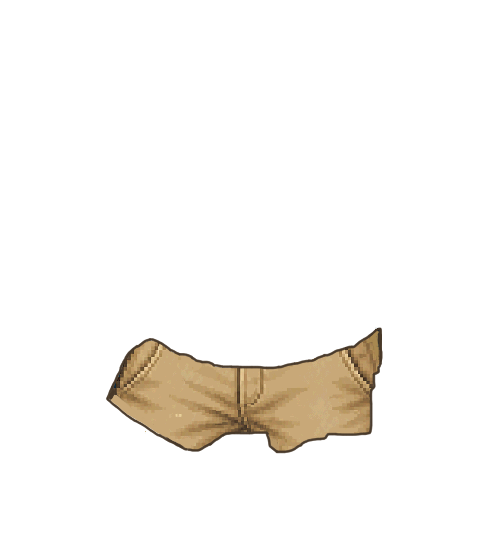
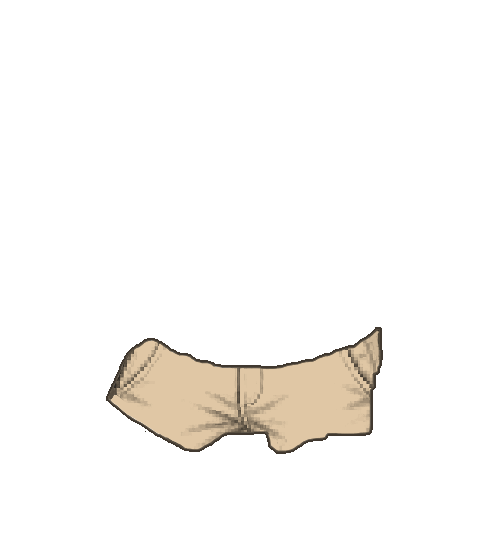
Новые предметы гардероба

Changed region(s): [[0.2188, 0.5959, 0.8125, 0.8641]]

diff --git a/src/data/wardrobe.ts b/src/data/wardrobe.ts
@@ -37,28 +37,43 @@ export const BODY_FILE = "wardrobe/body/bulbasaur_body.png";
 
 export const WARDROBE_ITEMS: WardrobeItemDef[] = [
   { code: "bottom_beach_shorts", category: "BOTTOM", name: "Пляжные шорты", price: 500, sellable: true, file: "wardrobe/bottom/bottom_beach_shorts.png" },
-  { code: "bottom_beige_shorts", category: "BOTTOM", name: "Бежевые шорты", price: 500, sellable: true, file: "wardrobe/bottom/bottom_beige_shorts.png", colorGroup: "basic_shorts", colorHex: "#c8b090", displayName: "Шорты" },
+  { code: "bottom_beige_shorts", category: "BOTTOM", name: "Бежевые шорты", price: 500, sellable: true, file: "wardrobe/bottom/bottom_beige_shorts.png", colorGroup: "basic_shorts", colorHex: "#c6b092", displayName: "Шорты" },
   { code: "bottom_black_shorts", category: "BOTTOM", name: "Чёрные шорты", price: 0, sellable: false, file: "wardrobe/bottom/bottom_black_shorts.png", colorGroup: "basic_shorts", colorHex: "#1a1a1a", displayName: "Шорты" },
-  { code: "bottom_blue_shorts", category: "BOTTOM", name: "Синие шорты", price: 1500, sellable: true, file: "wardrobe/bottom/bottom_blue_shorts.png", colorGroup: "basic_shorts", colorHex: "#3770d2", displayName: "Шорты" },
+  { code: "bottom_blue_shorts", category: "BOTTOM", name: "Синие шорты", price: 1500, sellable: true, file: "wardrobe/bottom/bottom_blue_shorts.png", colorGroup: "basic_shorts", colorHex: "#4777c3", displayName: "Шорты" },
   { code: "bottom_denim_shorts", category: "BOTTOM", name: "Джинсовые шорты", price: 500, sellable: true, file: "wardrobe/bottom/bottom_denim_shorts.png" },
-  { code: "bottom_green_shorts", category: "BOTTOM", name: "Зелёные шорты", price: 1500, sellable: true, file: "wardrobe/bottom/bottom_green_shorts.png", colorGroup: "basic_shorts", colorHex: "#2d9646", displayName: "Шорты" },
+  { code: "bottom_green_shorts", category: "BOTTOM", name: "Зелёные шорты", price: 1500, sellable: true, file: "wardrobe/bottom/bottom_green_shorts.png", colorGroup: "basic_shorts", colorHex: "#419353", displayName: "Шорты" },
   { code: "bottom_office_shorts", category: "BOTTOM", name: "Офисные шорты", price: 500, sellable: true, file: "wardrobe/bottom/bottom_office_shorts.png" },
-  { code: "bottom_orange_shorts", category: "BOTTOM", name: "Оранжевые шорты", price: 1500, sellable: true, file: "wardrobe/bottom/bottom_orange_shorts.png", colorGroup: "basic_shorts", colorHex: "#e6822d", displayName: "Шорты" },
-  { code: "bottom_pink_shorts", category: "BOTTOM", name: "Розовые шорты", price: 1500, sellable: true, file: "wardrobe/bottom/bottom_pink_shorts.png", colorGroup: "basic_shorts", colorHex: "#e664a0", displayName: "Шорты" },
-  { code: "bottom_purple_shorts", category: "BOTTOM", name: "Фиолетовые шорты", price: 1500, sellable: true, file: "wardrobe/bottom/bottom_purple_shorts.png", colorGroup: "basic_shorts", colorHex: "#7b3fa0", displayName: "Шорты" },
-  { code: "bottom_red_shorts", category: "BOTTOM", name: "Красные шорты", price: 1500, sellable: true, file: "wardrobe/bottom/bottom_red_shorts.png", colorGroup: "basic_shorts", colorHex: "#c83737", displayName: "Шорты" },
+  { code: "bottom_orange_shorts", category: "BOTTOM", name: "Оранжевые шорты", price: 1500, sellable: true, file: "wardrobe/bottom/bottom_orange_shorts.png", colorGroup: "basic_shorts", colorHex: "#d7863a", displayName: "Шорты" },
+  { code: "bottom_pink_shorts", category: "BOTTOM", name: "Розовые шорты", price: 1500, sellable: true, file: "wardrobe/bottom/bottom_pink_shorts.png", colorGroup: "basic_shorts", colorHex: "#d76e9d", displayName: "Шорты" },
+  { code: "bottom_purple_shorts", category: "BOTTOM", name: "Фиолетовые шорты", price: 1500, sellable: true, file: "wardrobe/bottom/bottom_purple_shorts.png", colorGroup: "basic_shorts", colorHex: "#7b4d98", displayName: "Шорты" },
+  { code: "bottom_red_shorts", category: "BOTTOM", name: "Красные шорты", price: 1500, sellable: true, file: "wardrobe/bottom/bottom_red_shorts.png", colorGroup: "basic_shorts", colorHex: "#bd4747", displayName: "Шорты" },
   { code: "bottom_sport_shorts", category: "BOTTOM", name: "Спортивные шорты", price: 500, sellable: true, file: "wardrobe/bottom/bottom_sport_shorts.png" },
   { code: "bottom_white_shorts", category: "BOTTOM", name: "Белые шорты", price: 500, sellable: true, file: "wardrobe/bottom/bottom_white_shorts.png", colorGroup: "basic_shorts", colorHex: "#f2f2f2", displayName: "Шорты" },
+  { code: "hat_wdm_white_cap", category: "HAT", name: "Белая кепка WDM", price: 5000, sellable: true, file: "wardrobe/hat/hat_wdm_white_cap.png", colorGroup: "wdm_cap", colorHex: "#f2f2f2", displayName: "Кепка WDM" },
+  { code: "hat_wdm_blue_cap", category: "HAT", name: "Синяя кепка WDM", price: 5000, sellable: true, file: "wardrobe/hat/hat_wdm_blue_cap.png", colorGroup: "wdm_cap", colorHex: "#4777c3", displayName: "Кепка WDM" },
+  { code: "hat_wdm_red_cap", category: "HAT", name: "Красная кепка WDM", price: 5000, sellable: true, file: "wardrobe/hat/hat_wdm_red_cap.png", colorGroup: "wdm_cap", colorHex: "#bd4747", displayName: "Кепка WDM" },
+  { code: "hat_wdm_black_cap", category: "HAT", name: "Чёрная кепка WDM", price: 5000, sellable: true, file: "wardrobe/hat/hat_wdm_black_cap.png", colorGroup: "wdm_cap", colorHex: "#23262d", displayName: "Кепка WDM" },
+  { code: "hat_wdm_green_cap", category: "HAT", name: "Зелёная кепка WDM", price: 5000, sellable: true, file: "wardrobe/hat/hat_wdm_green_cap.png", colorGroup: "wdm_cap", colorHex: "#419353", displayName: "Кепка WDM" },
+  { code: "hat_wdm_orange_cap", category: "HAT", name: "Оранжевая кепка WDM", price: 5000, sellable: true, file: "wardrobe/hat/hat_wdm_orange_cap.png", colorGroup: "wdm_cap", colorHex: "#d7863a", displayName: "Кепка WDM" },
+  { code: "hat_wdm_pink_cap", category: "HAT", name: "Розовая кепка WDM", price: 5000, sellable: true, file: "wardrobe/hat/hat_wdm_pink_cap.png", colorGroup: "wdm_cap", colorHex: "#d76e9d", displayName: "Кепка WDM" },
   { code: "glasses_black", category: "GLASSES", name: "Чёрные очки", price: 1500, sellable: true, file: "wardrobe/glasses/glasses_black.png", colorGroup: "glasses", colorHex: "#1a1a1a", displayName: "Очки" },
   { code: "glasses_orange", category: "GLASSES", name: "Оранжевые очки", price: 2000, sellable: true, file: "wardrobe/glasses/glasses_orange.png", colorGroup: "glasses", colorHex: "#ffa028", displayName: "Очки" },
   { code: "glasses_blue", category: "GLASSES", name: "Синие очки", price: 2000, sellable: true, file: "wardrobe/glasses/glasses_blue.png", colorGroup: "glasses", colorHex: "#468cff", displayName: "Очки" },
   { code: "glasses_red", category: "GLASSES", name: "Красные очки", price: 2000, sellable: true, file: "wardrobe/glasses/glasses_red.png", colorGroup: "glasses", colorHex: "#e63c3c", displayName: "Очки" },
   { code: "glasses_pink", category: "GLASSES", name: "Розовые очки", price: 2000, sellable: true, file: "wardrobe/glasses/glasses_pink.png", colorGroup: "glasses", colorHex: "#ff69b4", displayName: "Очки" },
+  { code: "glasses_deal_with_it", category: "GLASSES", name: "Очки Deal with it", price: 5000, sellable: true, file: "wardrobe/glasses/glasses_deal_with_it.png" },
   { code: "glasses_pince_nez", category: "GLASSES", name: "Пенсне", price: 500, sellable: true, file: "wardrobe/glasses/glasses_pince_nez.png", colorGroup: "pince_nez", colorHex: "#c8c8c8", displayName: "Пенсне" },
   { code: "glasses_pince_nez_orange", category: "GLASSES", name: "Пенсне оранжевое", price: 1000, sellable: true, file: "wardrobe/glasses/glasses_pince_nez_orange.png", colorGroup: "pince_nez", colorHex: "#e67e22", displayName: "Пенсне" },
   { code: "glasses_pince_nez_pink", category: "GLASSES", name: "Пенсне розовое", price: 1500, sellable: true, file: "wardrobe/glasses/glasses_pince_nez_pink.png", colorGroup: "pince_nez", colorHex: "#ff69b4", displayName: "Пенсне" },
   { code: "glasses_pince_nez_green", category: "GLASSES", name: "Пенсне зелёное", price: 1500, sellable: true, file: "wardrobe/glasses/glasses_pince_nez_green.png", colorGroup: "pince_nez", colorHex: "#50c850", displayName: "Пенсне" },
   { code: "glasses_pince_nez_red", category: "GLASSES", name: "Пенсне красное", price: 1500, sellable: true, file: "wardrobe/glasses/glasses_pince_nez_red.png", colorGroup: "pince_nez", colorHex: "#e63c3c", displayName: "Пенсне" },
+  { code: "shoes_crocs_beige", category: "SHOES", name: "Бежевые кроксы", price: 5000, sellable: true, file: "wardrobe/shoes/shoes_crocs_beige.png", colorGroup: "crocs", colorHex: "#c6b092", displayName: "Кроксы" },
+  { code: "shoes_crocs_blue", category: "SHOES", name: "Синие кроксы", price: 5000, sellable: true, file: "wardrobe/shoes/shoes_crocs_blue.png", colorGroup: "crocs", colorHex: "#4777c3", displayName: "Кроксы" },
+  { code: "shoes_crocs_green", category: "SHOES", name: "Зелёные кроксы", price: 5000, sellable: true, file: "wardrobe/shoes/shoes_crocs_green.png", colorGroup: "crocs", colorHex: "#419353", displayName: "Кроксы" },
+  { code: "shoes_crocs_pink", category: "SHOES", name: "Розовые кроксы", price: 5000, sellable: true, file: "wardrobe/shoes/shoes_crocs_pink.png", colorGroup: "crocs", colorHex: "#d76e9d", displayName: "Кроксы" },
+  { code: "shoes_crocs_red", category: "SHOES", name: "Красные кроксы", price: 5000, sellable: true, file: "wardrobe/shoes/shoes_crocs_red.png", colorGroup: "crocs", colorHex: "#bd4747", displayName: "Кроксы" },
+  { code: "shoes_crocs_white", category: "SHOES", name: "Белые кроксы", price: 5000, sellable: true, file: "wardrobe/shoes/shoes_crocs_white.png", colorGroup: "crocs", colorHex: "#f2f2f2", displayName: "Кроксы" },
+  { code: "shoes_crocs_yellow", category: "SHOES", name: "Жёлтые кроксы", price: 5000, sellable: true, file: "wardrobe/shoes/shoes_crocs_yellow.png", colorGroup: "crocs", colorHex: "#ceaf37", displayName: "Кроксы" },
   { code: "top_hoodie_black", category: "TOP", name: "Чёрная толстовка", price: 0, sellable: false, file: "wardrobe/top/top_hoodie_black.png", colorGroup: "hoodie", colorHex: "#1a1a1a", displayName: "Толстовка" },
   { code: "top_hoodie_beige", category: "TOP", name: "Бежевая толстовка", price: 4000, sellable: true, file: "wardrobe/top/top_hoodie_beige.png", colorGroup: "hoodie", colorHex: "#c8a878", displayName: "Толстовка" },
   { code: "top_hoodie_blue", category: "TOP", name: "Синяя толстовка", price: 4000, sellable: true, file: "wardrobe/top/top_hoodie_blue.png", colorGroup: "hoodie", colorHex: "#3770d2", displayName: "Толстовка" },
@@ -69,6 +84,15 @@ export const WARDROBE_ITEMS: WardrobeItemDef[] = [
   { code: "top_hoodie_red", category: "TOP", name: "Красная толстовка", price: 4000, sellable: true, file: "wardrobe/top/top_hoodie_red.png", colorGroup: "hoodie", colorHex: "#c83746", displayName: "Толстовка" },
   { code: "top_hoodie_white", category: "TOP", name: "Белое худи", price: 500, sellable: true, file: "wardrobe/top/top_hoodie_white.png", colorGroup: "hoodie", colorHex: "#f2f2f2", displayName: "Толстовка" },
   { code: "top_hoodie_white_a", category: "TOP", name: "Худи Альфа", price: 500, sellable: true, file: "wardrobe/top/top_hoodie_white_a.png" },
+  { code: "top_tshirt_beige", category: "TOP", name: "Бежевая футболка", price: 2000, sellable: true, file: "wardrobe/top/top_tshirt_beige.png", colorGroup: "basic_tshirt", colorHex: "#c6b092", displayName: "Футболка" },
+  { code: "top_tshirt_black", category: "TOP", name: "Чёрная футболка", price: 2000, sellable: true, file: "wardrobe/top/top_tshirt_black.png", colorGroup: "basic_tshirt", colorHex: "#1a1a1a", displayName: "Футболка" },
+  { code: "top_tshirt_blue", category: "TOP", name: "Синяя футболка", price: 2000, sellable: true, file: "wardrobe/top/top_tshirt_blue.png", colorGroup: "basic_tshirt", colorHex: "#4777c3", displayName: "Футболка" },
+  { code: "top_tshirt_green", category: "TOP", name: "Зелёная футболка", price: 2000, sellable: true, file: "wardrobe/top/top_tshirt_green.png", colorGroup: "basic_tshirt", colorHex: "#419353", displayName: "Футболка" },
+  { code: "top_tshirt_orange", category: "TOP", name: "Оранжевая футболка", price: 2000, sellable: true, file: "wardrobe/top/top_tshirt_orange.png", colorGroup: "basic_tshirt", colorHex: "#d7863a", displayName: "Футболка" },
+  { code: "top_tshirt_pink", category: "TOP", name: "Розовая футболка", price: 2000, sellable: true, file: "wardrobe/top/top_tshirt_pink.png", colorGroup: "basic_tshirt", colorHex: "#d76e9d", displayName: "Футболка" },
+  { code: "top_tshirt_purple", category: "TOP", name: "Фиолетовая футболка", price: 2000, sellable: true, file: "wardrobe/top/top_tshirt_purple.png", colorGroup: "basic_tshirt", colorHex: "#7b4d98", displayName: "Футболка" },
+  { code: "top_tshirt_red", category: "TOP", name: "Красная футболка", price: 2000, sellable: true, file: "wardrobe/top/top_tshirt_red.png", colorGroup: "basic_tshirt", colorHex: "#bd4747", displayName: "Футболка" },
+  { code: "top_tshirt_white", category: "TOP", name: "Белая футболка", price: 2000, sellable: true, file: "wardrobe/top/top_tshirt_white.png", colorGroup: "basic_tshirt", colorHex: "#f2f2f2", displayName: "Футболка" },
 ];
 
 const BY_CODE = new Map(WARDROBE_ITEMS.map((i) => [i.code, i]));
@@ -125,8 +149,8 @@ export const LAYER_ORDER: (keyof PlayerAppearance | "body")[] = [
   "bottom",
   "top",
   "shoes",
-  "hat",
   "glasses",
+  "hat",
 ];
 
 export const CATEGORY_LABELS: Record<WardrobeCategory, string> = {

diff --git a/src/entities/PlayerAvatar.ts b/src/entities/PlayerAvatar.ts
@@ -123,7 +123,8 @@ export function drawAppearance(
     ctx.drawImage(img, (size - w) / 2, (size - h) / 2, w, h);
   };
   draw(images.get(BODY_TEXTURE));
-  for (const slot of ["bottom", "top", "shoes", "hat", "glasses"] as const) {
+  for (const slot of LAYER_ORDER) {
+    if (slot === "body") continue;
     const code = appearance[slot];
     if (code) draw(images.get(textureKeyForItem(code)));
   }

diff --git a/index.html b/index.html
@@ -4,6 +4,7 @@
   <meta charset="UTF-8" />
   <meta name="viewport" content="width=device-width, initial-scale=1.0, viewport-fit=cover" />
   <title>Bulba Office</title>
+  <link rel="icon" type="image/png" href="/favicon.png" />
   <style>
     :root { --bg:#1b1f24; --panel:#262b33; --accent:#7ac07a; --text:#e8efe6; --sw: 100vw; --sh: 100vh; }
     * { box-sizing: border-box; }
